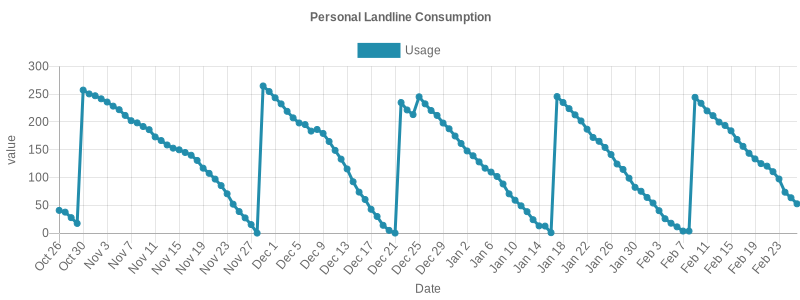
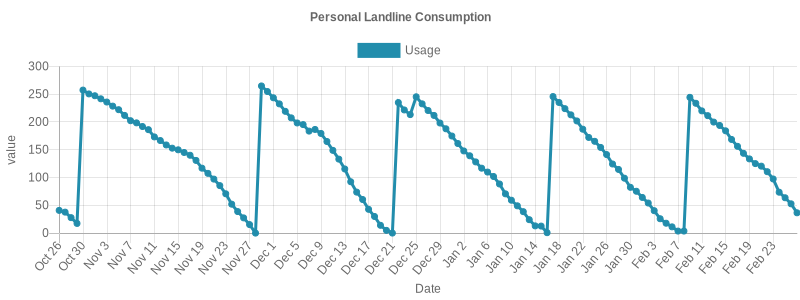
update logs

Changed region(s): [[0.0938, 0.24, 1.0, 0.93], [0.0938, 0.3, 0.125, 0.33]]

diff --git a/quota-logs/README.md b/quota-logs/README.md
@@ -122,3 +122,4 @@
 ## Sat Feb 24 2024 00:35:02 GMT+0200|73.59/250
 ## Sun Feb 25 2024 00:35:41 GMT+0200|63.59/250
 ## Mon Feb 26 2024 00:34:45 GMT+0200|52.71/250
+## Tue Feb 27 2024 00:34:48 GMT+0200|36.54/250
